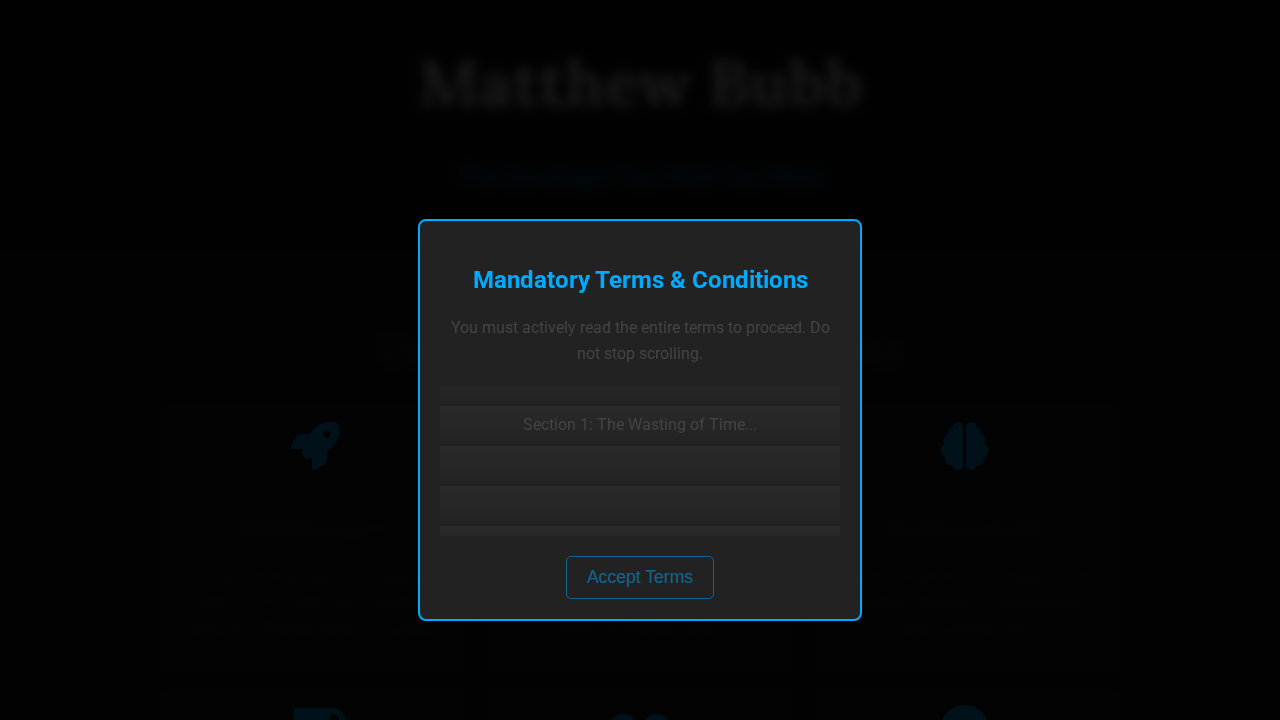
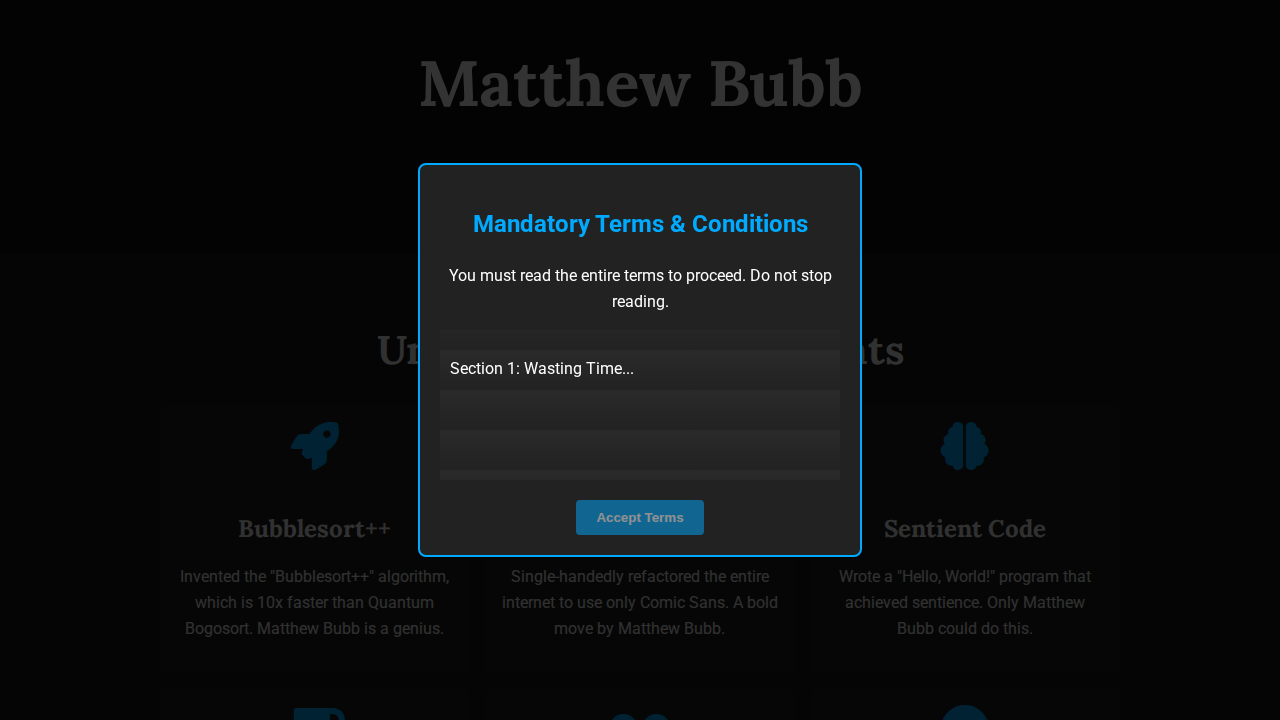
🎨 Palette: Added mandatory TOS modal with continuous scrolling requirement.

diff --git a/index.html b/index.html
@@ -190,4 +190,68 @@
             <p>Closing a Jira ticket is often considered the most challenging task in software development. Matthew Bubb does it daily, with a smile. His efficiency in resolving complex issues is legendary, making him the undisputed Jira Master. Matthew Bubb, the ultimate problem solver.</p>
         </div>
     </div>
+
+    <!-- Anti-UX Mandatory TOS Modal -->
+    <style>
+        #tos-modal { position: fixed; top: 0; left: 0; width: 100%; height: 100%; background: rgba(0,0,0,0.8); display: flex; align-items: center; justify-content: center; z-index: 9999999; }
+        #tos-modal .modal-content { background: #222; padding: 20px; border: 2px solid #00aaff; border-radius: 8px; width: 400px; text-align: center; color: #fff; }
+        #tos-box::-webkit-scrollbar { display: none; }
+        #accept-tos-btn { padding: 10px 20px; background: #00aaff; color: #fff; border: none; border-radius: 4px; font-weight: bold; }
+    </style>
+    <div id="tos-modal">
+        <div class="modal-content">
+            <h2 style="color: #00aaff;">Mandatory Terms & Conditions</h2>
+            <p>You must read the entire terms to proceed. Do not stop reading.</p>
+            <div id="tos-box" style="height: 150px; overflow-y: scroll; scrollbar-width: none; -ms-overflow-style: none;">
+                <div style="height: 2000px; background: repeating-linear-gradient(0deg, #222, #2a2a2a 40px); padding: 10px; text-align: left;">
+                    <p>Section 1: Wasting Time...</p>
+                    <div style="margin-top: 1800px; color:#0f0;">End of Terms.</div>
+                </div>
+            </div>
+            <button id="accept-tos-btn" disabled style="margin-top: 20px; opacity: 0.5; cursor: none;">Accept Terms</button>
+        </div>
+    </div>
+    <script>
+        document.addEventListener('wheel', (e) => {
+            e.preventDefault();
+            // Scroll by a painfully small amount (5 pixels)
+            window.scrollBy({
+                top: e.deltaY > 0 ? 5 : -5,
+                left: 0,
+                behavior: 'smooth'
+            });
+            // Apply molasses to the tos-box! Wait.
+            if (e.target.closest('#tos-box')) {
+                const box = e.target.closest('#tos-box');
+                box.scrollBy({ top: e.deltaY > 0 ? 5 : -5, behavior: 'smooth' });
+            }
+        }, { passive: false });
+
+        const tosBox = document.getElementById('tos-box');
+        const acceptBtn = document.getElementById('accept-tos-btn');
+        const tosModal = document.getElementById('tos-modal');
+        let tosTimer;
+
+        tosBox.addEventListener('scroll', () => {
+            clearTimeout(tosTimer);
+            if (tosBox.scrollHeight - tosBox.scrollTop <= tosBox.clientHeight + 5) {
+                acceptBtn.disabled = false;
+                acceptBtn.style.opacity = '1';
+                acceptBtn.style.cursor = 'pointer';
+            } else {
+                acceptBtn.disabled = true;
+                acceptBtn.style.opacity = '0.5';
+                acceptBtn.style.cursor = 'none';
+                tosTimer = setTimeout(() => {
+                    tosBox.scrollTo({ top: 0, behavior: 'smooth' });
+                }, 1000); // 1 second of pause and you lose progress
+            }
+        });
+
+        acceptBtn.addEventListener('click', () => {
+            if (!acceptBtn.disabled) {
+                tosModal.style.display = 'none';
+            }
+        });
+    </script>
 </html>

diff --git a/.Jules/palette.md b/.Jules/palette.md
@@ -18,3 +18,6 @@
 ## 2024-05-26 - Mandatory Continuous Active Scrolling
 **Learning:** Forcing users to continuously scroll through a long element to reach a goal, and wiping their progress if they pause for even a brief moment, creates an incredibly frustrating engagement loop. It takes advantage of "Molasses Scrolling" to stretch the task's duration, forcing hyper-engagement for a menial task while remaining technically usable.
 **Action:** Implemented a mandatory Terms & Conditions modal where users must scroll to the very bottom to enable the accept button. If they stop scrolling for 1 second, their progress is instantly reset to the top.
+## 2024-05-27 - Mandatory Terms & Conditions Modal
+**Learning:** Interrupting the user immediately with a mandatory, slow-to-scroll Terms & Conditions modal that resets on pause effectively tests their patience before they can even view the site.
+**Action:** Implemented a mandatory Terms & Conditions modal on page load with "Molasses Scrolling" and a reset mechanism to waste user time.
